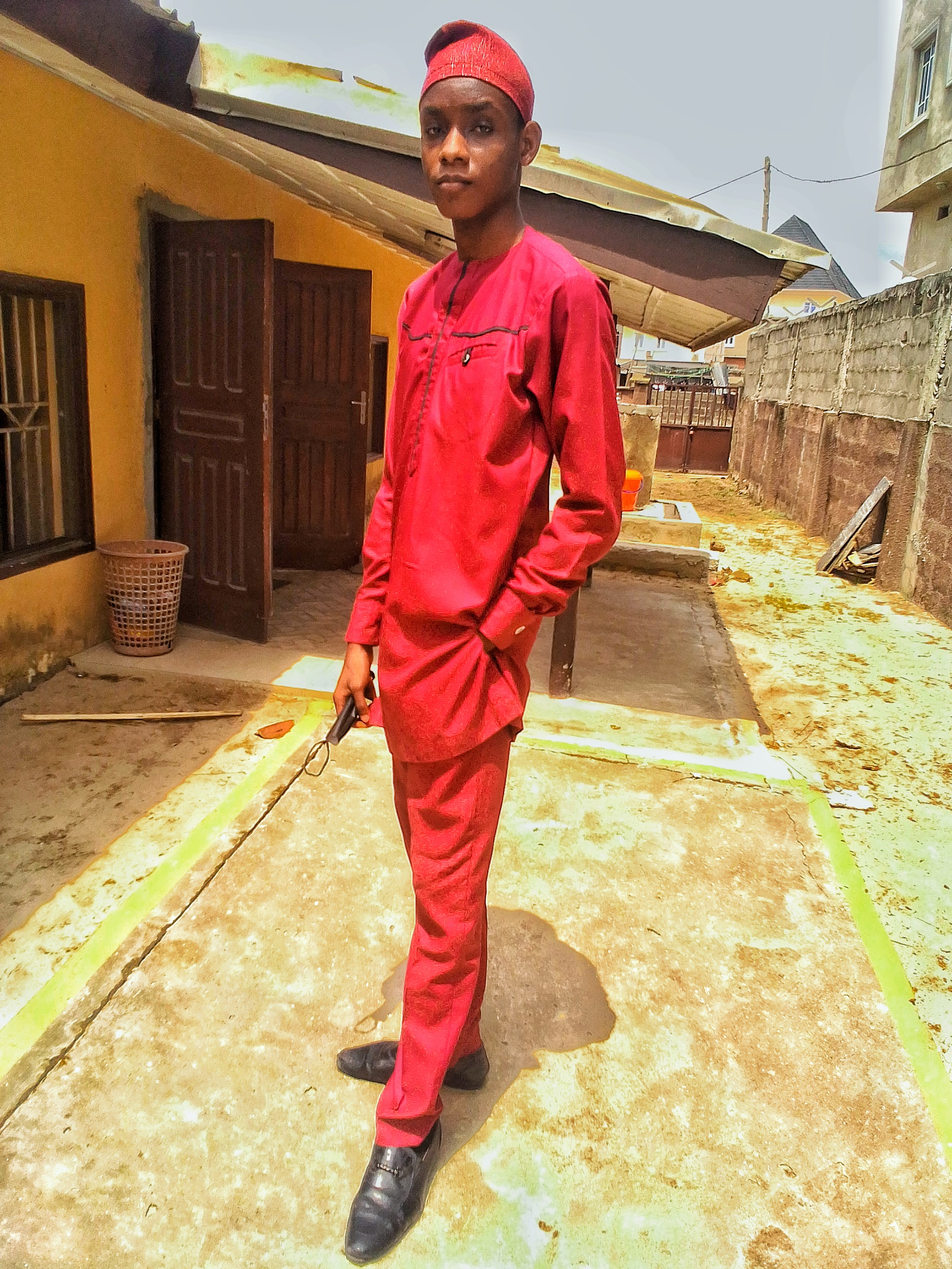
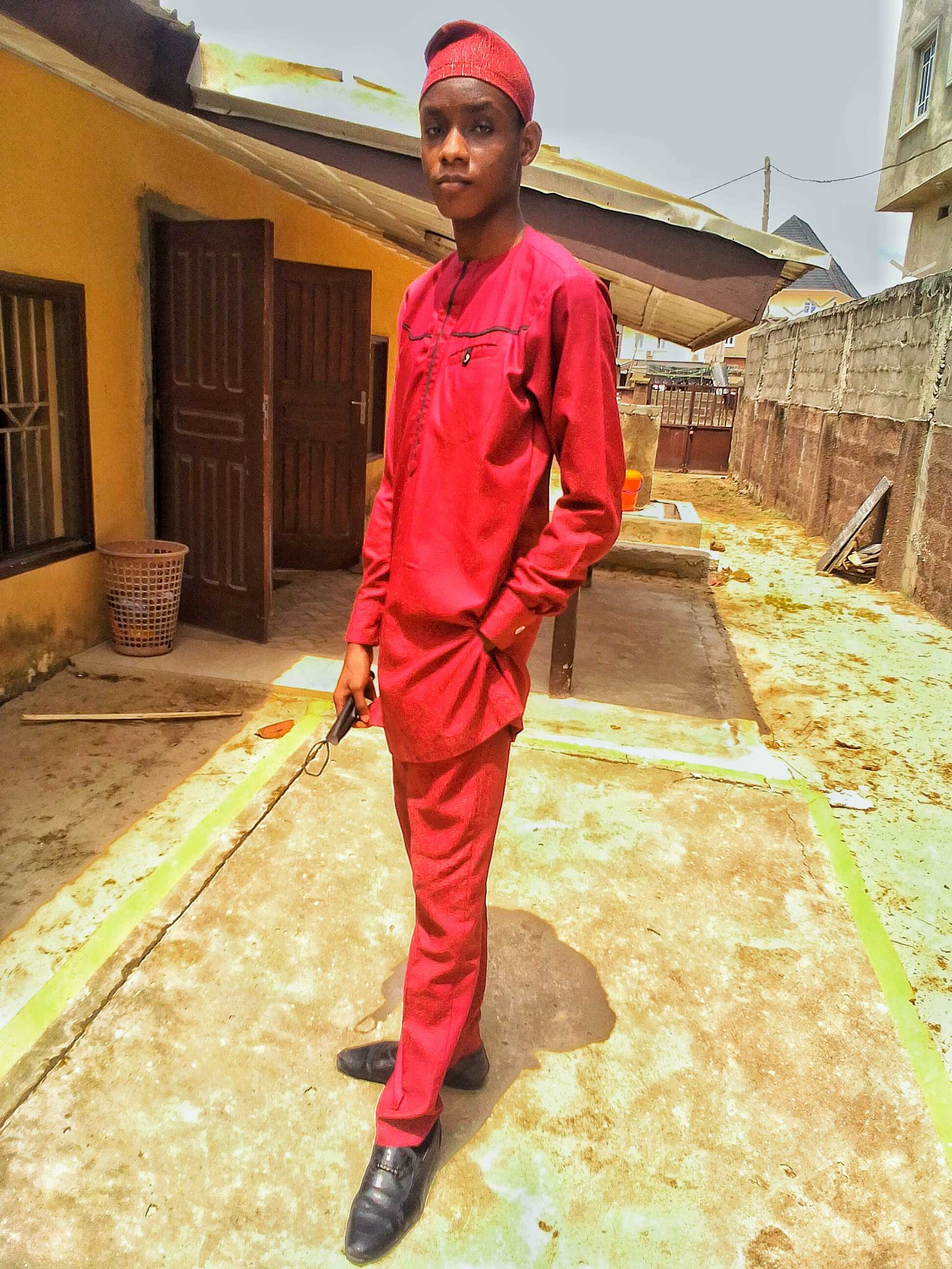
Optimized for faster loading
Optimized the image for faster loading s well as removed the contact me button in the hero section because it was redundant.

diff --git a/index.html b/index.html
@@ -110,13 +110,6 @@
             <span id="name">Mishael Enyi</span>. <br />
             I am a <br /><span id="job">Junior Front-End Developer</span>.
           </p>
-          <button>
-            <a
-              class="header-btn btn rounded-3"
-              href="#contacts"
-              >Contact Me</a
-            >
-          </button>
         </div>
         <img
           class="hero-img w-100 rounded-circle"

diff --git a/style.css b/style.css
@@ -234,6 +234,12 @@ footer p {
     width: 100% !important;
   }
 
+  .intro-text{
+    width: 50% !important;
+    padding-left: 5rem;
+    font-size: 5rem;
+  }
+
   .hero-img {
     width: 600px !important;
     height: 600px !important;
